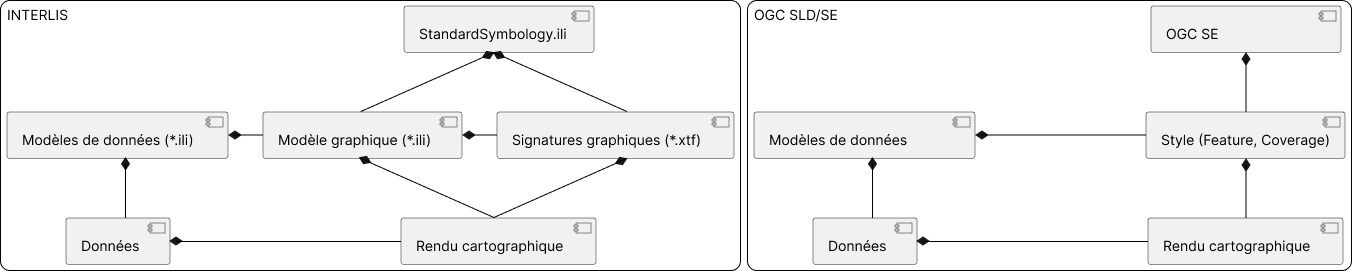
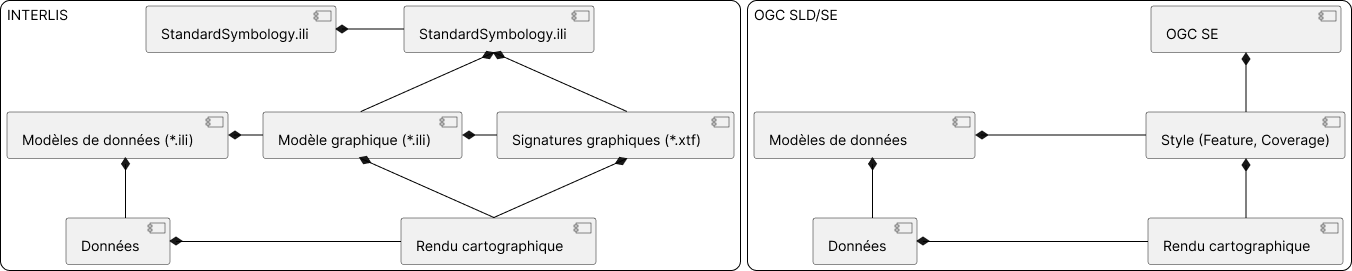
update slides

diff --git a/slides.md b/slides.md
@@ -567,36 +567,63 @@ Note: Aucune `VIEWS` n'a pu être trouvée dans les MGDM. Nous recommandoans la 
 Note: INTERLIS définit un modèle graphique (`.ili`) et une signature graphique (`.xtf`). La signature graphique (`.ili`) est liée au modèle graphique (`.xtf`) lui même lié au Modèle de données. L'association du modèle graphique, des signatures graphiques et des données permettent le rendu cartographique. Le standard OGC SLD/SE définit deux types de styles cartographiques: `FeatureTypeStyle` et `CoverageStyle`. Le `FeatureTypeStyle` est utilisé pour définir le style d'une couche vecteur tandis que le `CoverageStyle` est utilisé pour définir le style d'une couche raster. La représenation Raster n'étant pour l'heure pas prise en charge par INTERLIS, nous nous intéressons en 1er lieu au `FeatureTypeStyle`. L'association d'un `FeatureTypeStyle` à des données permet le rendu cartographique.
 
 ----
-### INTERLIS vs. SLD/SE
+### INTERLIS vs. SLD/SE & SymCore
 
-- Modèle Graphique ~ Style + Rule (Filter)
-- Signature Graphique ~ Symbolizer
+- Modèle Graphique
+    - `<Rule><Filter>` (SLD/SE)
+    - Selector (SymCore)
+- Signature Graphique
+    - `FeatureTypeStyle` (SLD/SE)
+    - ~~Coveragestyle~~ (SLD/SE)
+    - Symbolizer (SymCore)
 
-<p align="center">
-  <img src="assets/INTERLIS-SLD_SE.png" width=500 />
-</p>
-
-Note: Dans le contexte d'INTERLIS, la signature graphique (`.xtf`) est composée de 0 à n symboles de type ligne (`PolylineSign`), point (`SymbolSign`), surface (`SurfaceSign`) ou texte (`TextSign`).  Dans le contexte d'OGC SLD/SE Un `FeatureTypeStyle` est composé d'une ou de plusieures règles (`Rule`) elles-mêmes composés de 0 à n filtres (`Filter`) et de 0 à n symboliseurs (`Symbolizer`). Les symboliseurs peuvent être de type Ligne (`LineSymbolizer`), Point (`PointSymbolizer`), Polygon (`PolygonSymbolizer`) ou Texte (`TextSymbolizer`).
-
-----
-### INTERLIS vs. SLD/SE
-#### PolylineSign/LineSymbolizer
+Note: Dans le contexte d'INTERLIS, la signature graphique (`.xtf`) est composée de 0 à n symboles de type ligne (`PolylineSign`), point (`SymbolSign`), surface (`SurfaceSign`) ou texte (`TextSign`).  Dans le contexte d'OGC SLD/SE Un `FeatureTypeStyle` est composé d'une ou de plusieures règles (`Rule`) elles-mêmes composés de 0 à n filtres (`Filter`) et de 0 à n symboliseurs (`Symbolizer`). Les symboliseurs peuvent être de type Ligne (`LineSymbolizer`), Point (`PointSymbolizer`), Polygon (`PolygonSymbolizer`) ou Texte (`TextSymbolizer`). Le représentation graphique INTERLIS diffère en ce sens de SLD/SE en ce sens que les symboles sont définis dans la signature graphique (`.xtf`). Le modèle graphique (*.ili) est à associer à une règle  (`<Rule>`) et son filtre (`<Filter>`) dans SLD/SE ou à un sélecteur (Selector) dans SymCore. La signature graphique (`.xtf`) peut être déclinée en plusieurs `FontSymbol` à savoir `PolylineSign`, ``SymbolSign`, `SurfaceSign` et `TextSign` correspondant respectivement à `LineSymbolizer`, `PointSymbolizer`, `PolygonSymbolizer` et `TextSymbolizer` dans SLD/SE. La représentation Raster n'étant pour l'heure pas prise en charge par INTERLIS, nous nous intéressons en 1er lieu au `FeatureTypeStyle`.
 
 ----
-### INTERLIS vs. SLD/SE
-#### SymbolSign/PointSymbolizer
+### FontSymbol
+
+- Glyphe (UCS4) & Geometry
+- ~~ExternalGraphic~~
+
+```interlis
+CLASS FontSymbol =
+  !! All font symbols are defined for size 1.0 and scale 1.0.
+  !! The value is measured in user units (i.e. normally [m]).
+  Name        : TEXT*40; !! Symbol name, if known
+  UCS4        : 0 .. 4000000000; !! only for text symbols (characters)
+  Spacing     : SS_Float; !! only for text symbols (characters)
+  Geometry    : LIST OF FontSymbol_Geometry
+                RESTRICTION (FontSymbol_Polyline; FontSymbol_Surface);
+END FontSymbol;
+```
+
+Note: Dans le modèle StandardSymbology, les symboles peuvent être définis soit relativement à une Font (glyphe), soit en décrivant leur géométrie dans la Signature graphique (fichier *.xtf). Le recours a un graphique externe (ExternalGraphic) n'est, en revanche, pas possible. Afin de pouvoir utiliser les Fonts [Cadastra](https://www.cadastre.ch/fr/manual-av/service/cadastral-map.html), il est nécessaire de convertir les codes des symboles unicode pouvant être visualisés avec [FontDrop](https://fontdrop.info/) en base 10. Cela peut être réalisé avec des outils en ligne tels que [RapidTables](https://www.rapidtables.com/convert/number/hex-to-decimal.html).
 
 ----
-### INTERLIS vs. SLD/SE
-#### SurfaceSign/PolygonSymbolizer
+### PolylineSign
+
+- LineSymbolizer
 
 ----
-### INTERLIS vs. SLD/SE
-#### TextSign/TextSymbolizer
+### SymbolSign
+
+- PointSymbolizer
+
+Note: Pour définir des implantations ponctuelles, INTERLIS définit la classe `SymbolSign` qui correspond à un `PointSymbolizer` dans SLD/SE et aux classes d'exigences [8. Requirements Class “Basic Vector Features Styling”](https://opengeospatial.github.io/ogcna-auto-review/18-067r4.html#toc23) et [11.  Requirements Classes for Shapes](https://opengeospatial.github.io/ogcna-auto-review/18-067r4.html#toc32) dans SymCore.
+
+----
+### SurfaceSign
+
+- PolygonSymbolizer
+
+----
+### TextSign
+
+- TextSymbolizer
 
 ---
 ### Perspectives
-#### (Dénormalistion)
+#### Dénormalistion
 
 - Automatisation de la création de `VIEWS`
 - Pipeline de publication
@@ -607,7 +634,7 @@ Note: Dans le cas de modèles existants pour lesquels des géoservices ont pu ê
 
 ----
 ### Perspectives
-#### (Modèle de représentation)
+#### Modèle de représentation
 
 - Mapping INTERLIS, OGC SLD/SE & SymCore
 - Style Editor (p.ex. [GeoStyler](https://geostyler.org/) ou ~ [pySLD](https://github.com/iamtekson/pySLD))
@@ -619,7 +646,7 @@ Note: Pour favoriser l'interopéralité entre INTERLIS et les autres langages de
 
 ---
 ### Recommendations
-#### (Dénormalisation)
+#### Dénormalisation
 
 - Création de modèles dérivés
 - `PROJECTION OF` <Association>
@@ -630,7 +657,16 @@ Note: Nous recommandons la création de modèles dérivés pour la définition d
 
 ----
 ### Recommendations
-#### (Dénormalisation)
+#### StandardSymbology
+
+- AbstractSymbology
+- ExternalGraphic
+
+Note: Le modèle AbstractSymbology pourrait potentiellement être intégré dans le modèle StandardSymbology selon M. Baertschi (à éprouver). Le modèle StandardSymbology pourrait également être étendu pour prendre en charge les graphiques externes (ExternalGraphic).
+
+----
+### Recommendations
+#### Dénormalisation
 
 - Modifier le code source de [ili2db](https://github.com/claeis/ili2db) pour la prise en charge des `VIEWS`
 - [Python Bindings für INTERLIS](https://interlis.discourse.group/t/python-bindings-fuer-interlis/203)
@@ -640,7 +676,7 @@ Note: Il serait intéressant de modifier le code source de ili2db pour la prise 
 
 ----
 ### Recommendations
-#### (Inventaires des MGDM)
+#### Inventaires des MGDM
 
 - Intégrer des liens entre les différentes ressources (geobasisdaten.ch, geocat.ch, WMS, WFS etc.)
 - Màj geobasisdaten.ch liens geocat.ch [type='model'](https://www.geocat.ch/geonetwork/srv/fre/csw?service=CSW&version=2.0.2&request=GetRecords&resultType=results&constraintLanguage=CQL_TEXT&constraint=dc:type='model'&constraint_language_version=1.1.0&typeNames=csw:Record)
@@ -650,7 +686,7 @@ Note: Il serait intéressant d'intégrer des liens entre les différentes ressou
 
 ----
 ### Recommendations
-#### (Mise en réseau des ressources)
+#### Mise en réseau des ressources
 
 ![INDG Geocat](assets/INDG-Geocat.svg)
 
@@ -661,7 +697,7 @@ Note: Il serait intéressant de mettre en réseau les ressources INDG (geobasisd
 
 ----
 ### Recommendations
-#### (Collection(s) de Styles)
+#### Collection(s) de Styles
 
 ![INDG Styles](assets/INDG-Styles.png)
 
